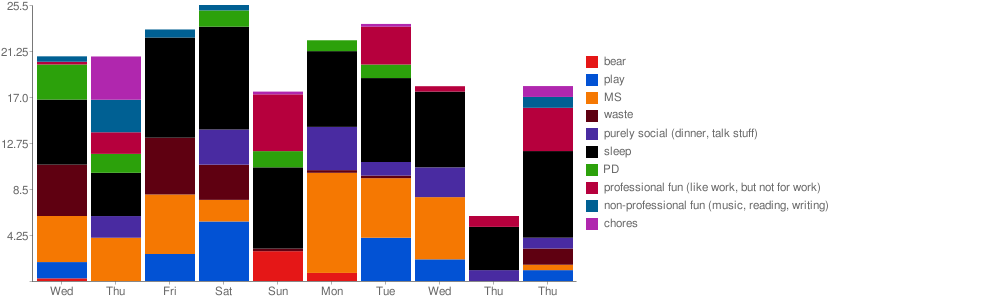
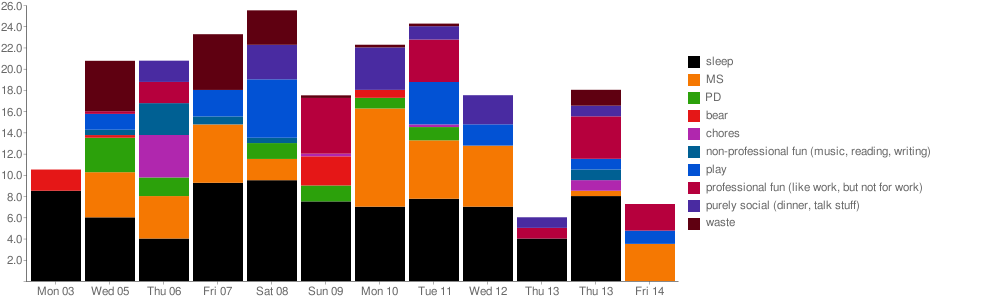
fixed some todo items: multi-line summaries, timezones hardcoded, calendar ordering. next step is probably to port to interactive UX instead of google chart, as well as use ical api rather than read files. so let's wait for user feedback and think about things before investing more time :-)

diff --git a/analyzer.py b/analyzer.py
@@ -3,6 +3,8 @@ Compute and print calendar statistics.
 """
 
 from __future__ import division
+from math import ceil
+import datetime
 
 from classes import TimePeriod
 
@@ -14,20 +16,27 @@ class Analyzer(object):
     def cross_reference_times(klass, data):
         for calendar in data['calendars']:
             if calendar.name == 'sleep':
-                def sort_events(x, y):
-                    if x.start > y.start:
-                        return 1
-                    elif x.start == y.start:
-                        return 0
-                    else:
-                        return -1
-                ordered_events = sorted(calendar.events, sort_events)
+                ordered_events = sorted(calendar.events)
                 prev_event = None
                 for event in ordered_events:
                     if prev_event:
                         TimePeriod.get_or_create(start=prev_event.end,
-                                                 end=event.start)
+                                                 end=event.end)
+                    else:
+                        # first sleep
+                        earlier = datetime.datetime(event.start.year,
+                                                    event.start.month,
+                                                    event.start.day-1)
+                        TimePeriod.get_or_create(start=earlier,
+                                                 end=event.end)
                     prev_event = event
+                    if event == ordered_events[-1]:
+                        # last sleep
+                        later = datetime.datetime(event.end.year,
+                                                  event.end.month,
+                                                  event.end.day+1)
+                        TimePeriod.get_or_create(start=event.end,
+                                                 end=later)
         
         for event in data['events']:
             #if event.calendar.name != 'sleep':
@@ -109,7 +118,7 @@ class Analyzer(object):
         colors = []
         names = []
         lines = []
-        for calendar in data['calendars']:
+        for calendar in sorted(data['calendars']):
             colors.append(calendar.color)
             names.append(calendar.name)
             line = []
@@ -119,17 +128,19 @@ class Analyzer(object):
                     sum += event.duration
                 line.append(sum/3600)
             lines.append(line)
+        #names.reverse()
+        #colors.reverse()
         
         max_y = 0
         y_labels = []
         for (start, tp) in TimePeriod.get_ordered_periods():
-            y_labels.append(start.strftime("%a"))#"%s/%s" % (start.month, start.day))
+            y_labels.append(start.strftime("%a %d"))#"%s/%s" % (start.month, start.day))
             tp_sum = 0
             for event in tp.events:
                 tp_sum += event.duration
             if tp_sum/3600 > max_y:
                 max_y = tp_sum/3600
-        #max_y = 24
+        max_y = ceil(max_y)
 
         chart = pygooglechart.StackedVerticalBarChart(1000,
                                                       300,
@@ -144,11 +155,33 @@ class Analyzer(object):
         
         # Last value is the lowest in the Y axis.
         #chart.add_data([0] * 2)
-        
+          
+        def factor(n):
+            """
+            from: http://blog.dhananjaynene.com/2009/01/2009-is-not-a-prime-number-a-python-program-to-compute-factors/ 
+            Get the factors for a number 
+            Not optimised for tail recursion 
+            """  
+            if n == 1: return [1]  
+            i = 2  
+            limit = n**0.5  
+            while i <= limit:  
+                if n % i == 0:  
+                    ret = factor(n/i)  
+                    ret.append(i)  
+                    return ret  
+                i += 1  
+            return [n] 
         # Some axis data
+        
         t = ['']
-        tt = 6
-        for i in range(tt):
+        factors = factor(max_y)
+        if factors:
+            tt = factors[0]
+        else:
+            tt = max_y
+        print tt
+        for i in range(int(tt)):
             t.append(max_y/tt*(i+1))
         chart.set_axis_labels(pygooglechart.Axis.LEFT, t)
         chart.set_axis_labels(pygooglechart.Axis.BOTTOM, y_labels)

diff --git a/reader.py b/reader.py
@@ -18,7 +18,7 @@ import datetime
 DEBUG = False
 
 class Reader(object):
-    # set whenever a calender folder is encountered.
+    # set whenever a calender folder is encountered and thus a calendar is created
     # used when reading event files to know which calendar they are for 
     current_calendar = None
     
@@ -213,6 +213,7 @@ class Reader(object):
                         'summary':None,
                         'begin':None}
         f = open(fname, 'r')
+        last_key_is_summary = False
         for line in f.readlines():
             """
             NOTE: keys can exist multiple times in the file
@@ -235,6 +236,9 @@ class Reader(object):
                 self.rrule =  {'freq':'weekly', 'interval'=1}
             """
             # parse the line
+            if line.startswith(' ') and last_key_is_summary:
+                event_fields['summary'] += line.strip()
+                continue
             key_value = smart_split(line, ':')
             if len(key_value) == 1:
                 print "skipping line because ':' not found", key_value
@@ -270,11 +274,17 @@ class Reader(object):
                         key_value = smart_split(sub_key, '=')
                         event_fields["%s_%s" % (smart_name(key),
                                                 smart_name(key_value[0]))] = key_value[1]
+                last_key_is_summary = (key == 'SUMMARY')
         f.close()
         if event_fields['begin'] != 'VEVENT':
             return None
         
         #events = split_event_if_crosses_midnight(event)
+        
+        if 'start_tz' in event_fields and event_fields['start_tz'] == 'Europe/Berlin':
+            event_fields['start'] = event_fields['start'] - datetime.timedelta(hours=6)
+        if 'end_tz' in event_fields and event_fields['end_tz'] == 'Europe/Berlin':
+            event_fields['end'] = event_fields['end'] - datetime.timedelta(hours=6)
         
         if not klass.current_calendar:
             print "NO CALENDAR ERROR"

diff --git a/classes.py b/classes.py
@@ -65,6 +65,16 @@ class Calendar(object):
 
     def __str__(self):
         return "%s (%s)" % (self.name, len(self.events))
+    
+    def __cmp__(self, calendar):
+        if self.name == "sleep":
+            return -1
+        if self.name > calendar.name:
+            return 1
+        elif self.name == calendar.name:
+            return 0
+        else:
+            return -1
 
 class Event(object):
     """
@@ -105,6 +115,14 @@ class Event(object):
 
     def __str__(self):
         return "%s hrs (%s --- %s) %s" % (self.duration / 3600, self.start, self.end, self.calendar)
+    
+    def __cmp__(self, event):
+        if self.start > event.start:
+            return 1
+        elif self.start == event.start:
+            return 0
+        else:
+            return -1
 
 class TimePeriod(object):
     
